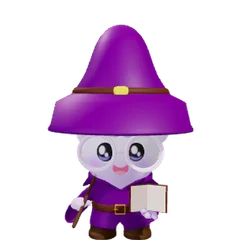
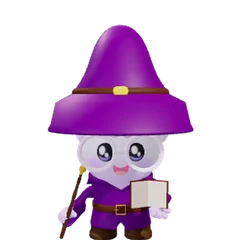
Re-pose the wizard's arms so both sleeves stay clean
- The book arm reaches almost straight forward (no bent elbow to fold the
  wide bell sleeve into a crease); the hand turns palm-up at the wrist
  (new hold.<side>.wristRoll) instead of rolling the whole forearm, and the
  book is raised to meet it (new hold.shift).
- The wand arm hangs relaxed at the side so the fist comes out of its
  cuff instead of sitting outside the sleeve.
- A long shoulder blend and a narrower torso band remove the pinched point
  under the book-side armpit; the belt and the robe at belt height stay on
  the body.

diff --git a/frontend/src/components/mascot/mascotArmPose.js b/frontend/src/components/mascot/mascotArmPose.js
@@ -41,6 +41,9 @@ export const ARM_FRAME = {
   handMinX: 0.5,
   handBandY: [0.29, 0.43],
   gripX: 0.617,
+  // `wristRoll` turns only the hand about the arm axis, blending in over this
+  // stretch of the wrist (inside the cuff), so a sleeve is never twisted.
+  wristTwist: [0.5, 0.56],
 };
 
 // Shorter arms (`hold.armLength: { from, to, scale }`): along each arm the
@@ -54,7 +57,7 @@ const shortenReach = (reach, { from, to, scale }) => {
   return reach - ((to - from) * (1 - scale));
 };
 const FRAME_REACH_KEYS = ['elbowX', 'palmX', 'knuckleX', 'handMinX', 'gripX'];
-const FRAME_RANGE_KEYS = ['shoulderBlend', 'elbowBlend', 'torsoX'];
+const FRAME_RANGE_KEYS = ['shoulderBlend', 'elbowBlend', 'torsoX', 'wristTwist'];
 export const shortenArmFrame = (frame, armLength) => {
   const next = { ...frame };
   FRAME_REACH_KEYS.forEach((key) => { next[key] = shortenReach(frame[key], armLength); });
@@ -221,8 +224,9 @@ const createArmSkeleton = (model, frame) => {
 //     right: { ... },
 //     props: { left: [meshName, ...], right: [...] },
 //     fixed: [meshName, ...],
+//     shift: { meshName: [dx, dy, dz] },
 //     headwear: { materials: [...], fromY, lift },
-//     frame: { elbowBlend: [...], ... },
+//     frame: { elbowBlend: [...], ... },   (left/right also take wristRoll)
 //     opaqueArms: true,
 //     wave: { side: 'right' | 'left' | 'both', degrees: 22, speed: 9 } }
 // `frame` overrides ARM_FRAME for this character (a softer elbow blend).
@@ -320,6 +324,46 @@ export const poseCharacterArms = (model, hold, baseFrame = ARM_FRAME) => {
       });
     });
   }
+
+  // `shift: { meshName: [dx, dy, dz] }` moves a mesh (a fixed prop) before
+  // posing, e.g. a book raised so the arm holding it can stay almost straight.
+  Object.entries(hold.shift || {}).forEach(([name, offset]) => {
+    baked.forEach((item) => {
+      if (item.mesh.name !== name && item.mesh.parent?.name !== name) return;
+      item.points.forEach((point) => point.add(new THREE.Vector3().fromArray(offset)));
+    });
+  });
+
+  // Turn a hand palm-up (or sideways) at the wrist instead of rolling the
+  // whole forearm: a forearm roll twists the elbow like a sweet wrapper and
+  // flips a bell sleeve over. The rest arm axis runs along x, so the hand
+  // rolls about that line; props held in it turn with it.
+  ['left', 'right'].forEach((side) => {
+    const degrees = hold[side]?.wristRoll;
+    if (!degrees) return;
+    const sign = side === 'right' ? -1 : 1;
+    const angle = THREE.MathUtils.degToRad(degrees);
+    baked.forEach((item) => {
+      if (item.fixed || item.grip) return;
+      item.points.forEach((point, index) => {
+        if (item.rigid ? item.rigid !== side : (point.x * sign <= 0 || !isArmPoint(point, frame))) return;
+        const t = item.rigid ? 1 : THREE.MathUtils.smoothstep(point.x * sign, frame.wristTwist[0], frame.wristTwist[1]);
+        if (!t) return;
+        const cos = Math.cos(angle * t);
+        const sin = Math.sin(angle * t);
+        const y = point.y - frame.axisY;
+        const z = point.z - frame.axisZ;
+        point.y = frame.axisY + (y * cos) - (z * sin);
+        point.z = frame.axisZ + (y * sin) + (z * cos);
+        const normal = item.normals[index];
+        if (normal) {
+          const ny = normal.y;
+          normal.y = (ny * cos) - (normal.z * sin);
+          normal.z = (ny * sin) + (normal.z * cos);
+        }
+      });
+    });
+  });
 
   // Hats sit higher so the brain shows under the brim, as in the approved
   // renders: `headwear: { materials: [...], fromY, lift }` raises every vertex

diff --git a/frontend/src/components/mascot/mascotCatalog.js b/frontend/src/components/mascot/mascotCatalog.js
@@ -430,21 +430,34 @@ export const POSED_VARIANTS = {
     url: '/mascot/poses/wizard.glb',
     label: 'Magic wand & spell book',
     brainMaterials: ['toc'],
-    // The wand hand (already curled around the wand) comes in front of the
-    // chest; the other hand cups the open spell book from below, palm up.
+    // The wand hand hangs relaxed at the side, holding the wand like a staff;
+    // the other arm reaches almost straight forward with the hand turned
+    // palm-up at the wrist under the open spell book (client, 2026-09-24:
+    // a bent elbow folded the wide bell sleeve into a sharp crease, and the
+    // raised wand fist sat outside its sleeve).
     hold: {
-      right: { target: [-0.3, 0.3, 0.22], pole: [1, -1, -0.5] },
-      left: { target: [0.2, 0.255, 0.31], pole: [1, -1, -0.4], roll: 180 },
+      right: { target: [-0.42, 0.2, 0.18], pole: [1, -1, -0.5] },
+      left: { target: [0.28, 0.27, 0.41], pole: [1, -1, -0.4], wristRoll: 180 },
       props: { right: ['pCylinder3'] },
       // The open spell book (rebuilt by tmp/build-wizard-book.mjs) stays still
-      // in front of the body; the palm holds it under the spine.
-      fixed: ['spell_book'],
+      // in front of the body, raised to meet the straighter arm. The belt
+      // stays on the robe instead of being tugged by the arms.
+      fixed: ['spell_book', 'polySurface1002'],
+      shift: { spell_book: [0, 0.035, 0.03] },
       // The witch hat (robe, hat band and buckle materials above the neck)
       // rides higher so the brain shows under its brim.
       headwear: { materials: ['QUAN_AO', 'That_lung', 'pk_non'], fromY: 0.9, lift: 0.12 },
-      // The book-side bell sleeve rises to y≈0.48, above the default arm
-      // band; without this its top stayed put and tore into a flap.
-      frame: { sleeveTop: { fromX: 0.4, maxY: 0.52 } },
+      frame: {
+        // The book-side bell sleeve rises to y≈0.48, above the default arm
+        // band; without this its top stayed put and tore into a flap.
+        sleeveTop: { fromX: 0.4, maxY: 0.52 },
+        // A long, soft shoulder blend so the wide sleeve turns forward
+        // without a pinched point at the armpit; the robe at belt height
+        // (below armpitY) stays on the body.
+        shoulderBlend: [0.1, 0.34],
+        torsoX: [0.3, 0.36],
+        armpitY: [0.3, 0.36],
+      },
       // The shared body material is see-through: opaque hands keep the wrists
       // solid and hide the wand inside the fist.
       opaqueArms: true,

diff --git a/frontend/src/components/mascot/mascotArmPose.test.js b/frontend/src/components/mascot/mascotArmPose.test.js
@@ -103,3 +103,32 @@ test('opaqueArms draws only the arm triangles of a see-through material opaque',
     { start: 6, count: 6, materialIndex: 1 },
   ]);
 });
+
+test('wristRoll turns only the hand, and shift moves a fixed prop before posing', () => {
+  const build = () => {
+    const model = new THREE.Group();
+    // A sleeve point on the forearm and a knuckle point on the hand, both
+    // above the arm axis.
+    const geometry = new THREE.BufferGeometry();
+    geometry.setAttribute('position', new THREE.Float32BufferAttribute([
+      0.45, ARM_FRAME.axisY + 0.03, ARM_FRAME.axisZ,
+      0.62, ARM_FRAME.axisY + 0.03, ARM_FRAME.axisZ,
+      0.62, ARM_FRAME.axisY, ARM_FRAME.axisZ + 0.01,
+    ], 3));
+    const arm = new THREE.Mesh(geometry, new THREE.MeshStandardMaterial());
+    arm.name = 'arm';
+    const book = new THREE.Mesh(new THREE.BoxGeometry(0.1, 0.1, 0.02), new THREE.MeshStandardMaterial());
+    book.name = 'book';
+    model.add(arm, book);
+    return model;
+  };
+  const model = build();
+  const pose = poseCharacterArms(model, { left: { wristRoll: 180 }, fixed: ['book'], shift: { book: [0, 0.05, 0] } });
+  const arm = pose.skinned.find((mesh) => mesh.name === 'arm').geometry.getAttribute('position');
+  // The sleeve keeps its place; the knuckle turns to below the arm axis.
+  expect(arm.getY(0)).toBeCloseTo(ARM_FRAME.axisY + 0.03, 5);
+  expect(arm.getY(1)).toBeCloseTo(ARM_FRAME.axisY - 0.03, 5);
+  const book = pose.skinned.find((mesh) => mesh.name === 'book');
+  book.geometry.computeBoundingBox();
+  expect(book.geometry.boundingBox.getCenter(new THREE.Vector3()).y).toBeCloseTo(0.05, 5);
+});
